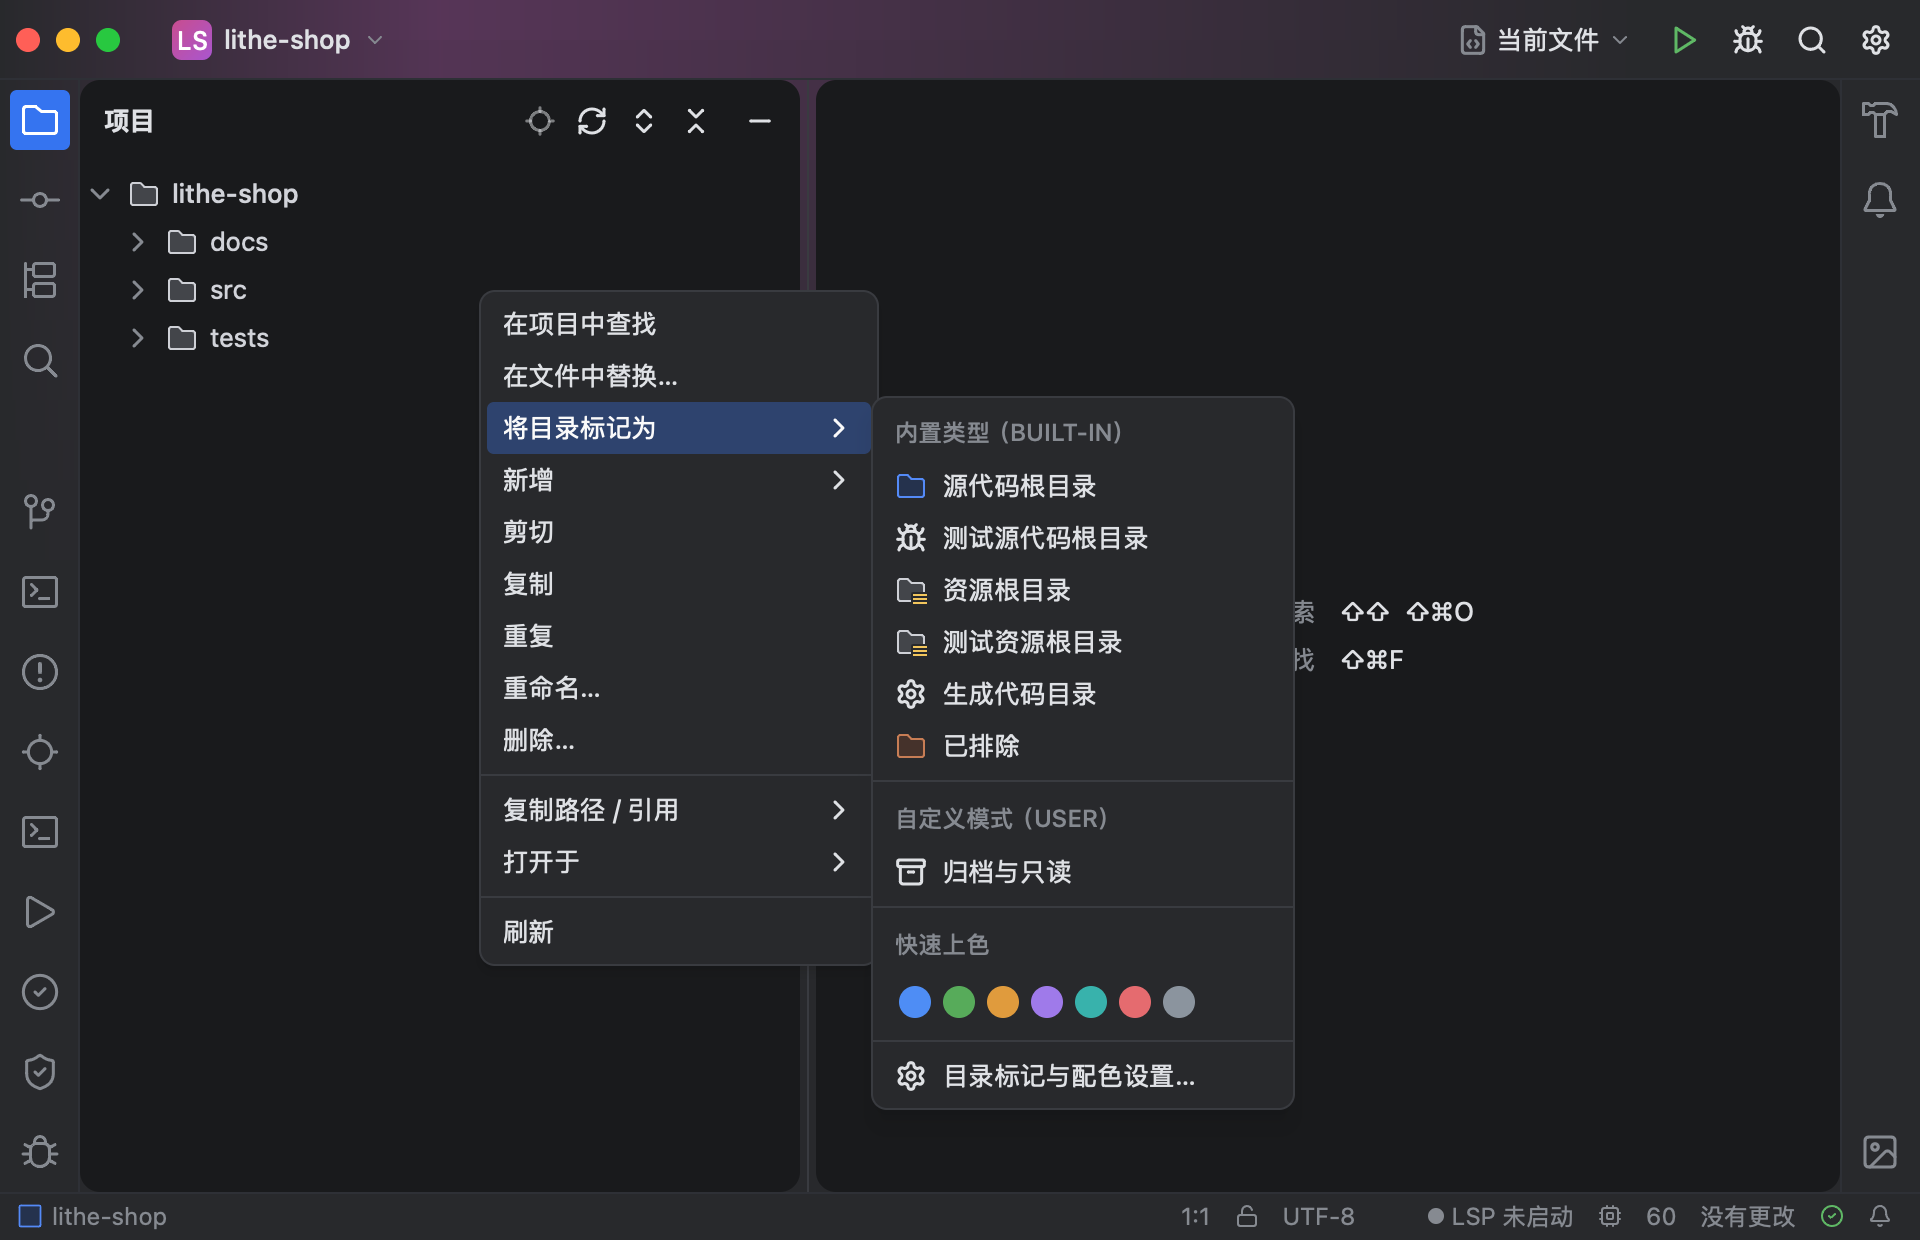
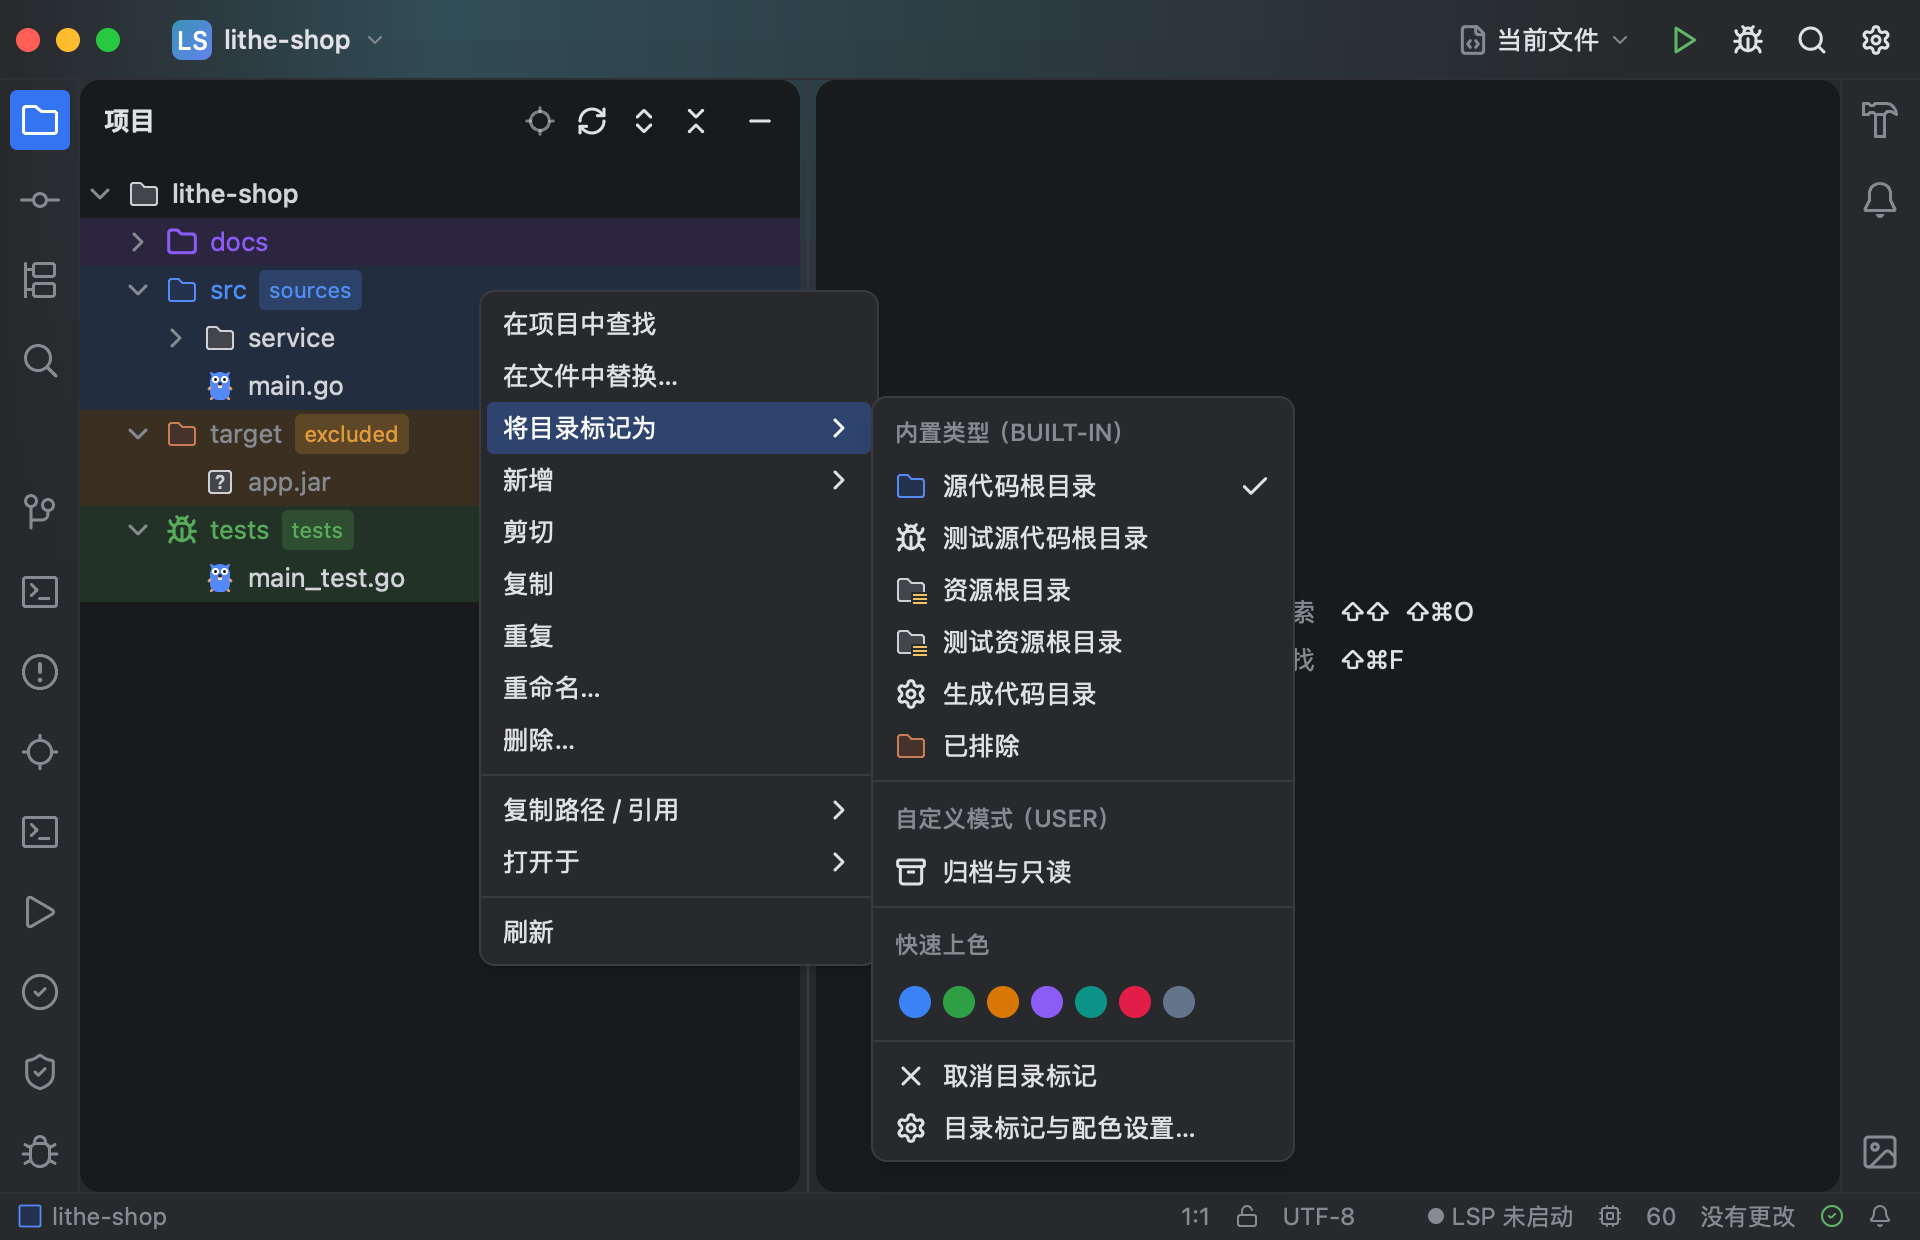
feat(workbench): seamless full-width continuous directory subtree tinting via Viva RowBackground (#2486)
* feat(workbench): render seamless full-width directory tinting via Viva TreeState.RowBackground

* docs(matrix): record #2486 full-width directory row tinting

Add the RowBackground-based subtree tint, the direct name and icon tint,
the light-theme darkening and the new quick-color palette to the
workspace-indexing-exclusions capability, with the macOS test and
headless screenshot evidence. Native and Windows checks stay pending.

diff --git a/desktop/internal/workbench/filetree_view.go b/desktop/internal/workbench/filetree_view.go
@@ -4,6 +4,7 @@ import (
 	"github.com/1lck/Lithe-IDEA/desktop/internal/core"
 	"github.com/1lck/Lithe-IDEA/desktop/internal/fileicons"
 	"github.com/1lck/Lithe-IDEA/desktop/internal/i18n"
+	"github.com/1lck/Lithe-IDEA/desktop/internal/icons"
 	"github.com/1lck/Lithe-IDEA/desktop/internal/shortcuts"
 	"github.com/1lck/Lithe-IDEA/desktop/internal/treelist"
 	"github.com/vivaui/viva/components"
@@ -86,6 +87,27 @@ func (a *App) projectTree(c ui.C, p *project) {
 		Collapsed: fileicons.TreeChevron(false, a.colors.Dark),
 		Expanded:  fileicons.TreeChevron(true, a.colors.Dark),
 		Size:      16,
+	}
+	t.view.RowBackground = func(i int) gfx.Color {
+		if p.indexing.hideBgTint || i < 0 || i >= len(t.rows) {
+			return gfx.Color{}
+		}
+		n := t.rows[i]
+		if n == nil || n == t.root {
+			return gfx.Color{}
+		}
+		entry, ok := p.indexing.presentation[n.path]
+		if !ok || entry.BgColor == "" {
+			return gfx.Color{}
+		}
+		alpha := uint8(34)
+		if a.colors.Dark {
+			alpha = 42
+		}
+		if col, ok := parseHexColor(entry.BgColor, alpha); ok {
+			return col
+		}
+		return gfx.Color{}
 	}
 	tree := ui.Tree(c, &t.view, len(t.rows), t.label, func(i int) {
 		a.drawTreeContent(c, p, t.view.RowID(i), t.rows[i])
@@ -215,8 +237,12 @@ func (a *App) drawTreeContent(c ui.C, p *project, row gfx.ID, n *treeNode) {
 		iconTint := a.colors.Subtle
 		switch {
 		case n.dir && hasMeta && (entry.Role != "plain" || entry.Color != ""):
-			icon = a.directoryIconFor(p, entry.Icon)
-			if tinted, ok := parseHexColor(entry.Color, 0xff); ok {
+			if entry.Icon == "folder" && entry.Color != "" {
+				icon = icons.Folder
+			} else {
+				icon = a.directoryIconFor(p, entry.Icon)
+			}
+			if tinted, ok := readableTreeTint(entry.Color, a.colors.Dark); ok {
 				iconTint = tinted
 			}
 		case p.tree.isModuleRoot(n):
@@ -231,9 +257,9 @@ func (a *App) drawTreeContent(c ui.C, p *project, row gfx.ID, n *treeNode) {
 		if hasMeta {
 			if entry.Excluded {
 				textColor = a.colors.Subtle
-			} else if entry.TintText && entry.Color != "" {
+			} else if entry.Color != "" && (n.dir || entry.TintText) {
 				if _, hasGit := p.git.tree[n.path]; !hasGit {
-					if tinted, ok := parseHexColor(entry.Color, 0xff); ok {
+					if tinted, ok := readableTreeTint(entry.Color, a.colors.Dark); ok {
 						textColor = tinted
 					}
 				}
@@ -243,10 +269,14 @@ func (a *App) drawTreeContent(c ui.C, p *project, row gfx.ID, n *treeNode) {
 		if n.dir && !p.indexing.hideTags && hasMeta && entry.Tag != "" {
 			tagFg := a.colors.Subtle
 			tagBg := a.colors.Hover
-			if tinted, ok := parseHexColor(entry.Color, 0xff); ok {
+			if tinted, ok := readableTreeTint(entry.Color, a.colors.Dark); ok {
 				tagFg = tinted
 			}
-			if bg, ok := parseHexColor(entry.Color, 34); ok {
+			bgAlpha := uint8(42)
+			if a.colors.Dark {
+				bgAlpha = 56
+			}
+			if bg, ok := parseHexColor(entry.Color, bgAlpha); ok {
 				tagBg = bg
 			}
 			ui.Row(c).Shrink(0).PadSides(1, 5, 1, 5).Radius(3).Background(tagBg).Children(func() {
@@ -255,30 +285,11 @@ func (a *App) drawTreeContent(c ui.C, p *project, row gfx.ID, n *treeNode) {
 		}
 		a.projectTreeMenu(c, p, row, n, name)
 	}
-	var bgTint gfx.Color
-	hasBg := false
-	if !p.indexing.hideBgTint && hasMeta && entry.BgColor != "" && n != p.tree.root {
-		alpha := uint8(26)
-		if a.colors.Dark {
-			alpha = 34
-		}
-		if parsed, ok := parseHexColor(entry.BgColor, alpha); ok {
-			bgTint, hasBg = parsed, true
-		}
-	}
 	if n.dir && !n.empty {
-		if hasBg {
-			ui.Row(c).FillWidth().Items(ui.Center).Gap(c.Theme().Metrics.GapItem).Radius(3).Background(bgTint).Children(content)
-			return
-		}
 		content()
 		return
 	}
-	r := ui.Row(c).Shrink(0).Items(ui.Center).Gap(c.Theme().Metrics.GapItem).PadLeft(treeChevron)
-	if hasBg {
-		r = r.FillWidth().Radius(3).Background(bgTint)
-	}
-	r.Children(content)
+	ui.Row(c).Shrink(0).Items(ui.Center).Gap(c.Theme().Metrics.GapItem).PadLeft(treeChevron).Children(content)
 }
 
 // focusTreeRow gives the keyboard to the row the locate button brought into view, once the row

diff --git a/desktop/internal/workbench/directory_exclusions.go b/desktop/internal/workbench/directory_exclusions.go
@@ -115,13 +115,13 @@ type directoryColorSwatch struct {
 
 func directoryColorSwatchesFor(language i18n.Language) []directoryColorSwatch {
 	return []directoryColorSwatch{
-		{label: i18n.Shared(language, "desktop.directoryMarks.color.blue"), hex: "#4e8df5"},
-		{label: i18n.Shared(language, "desktop.directoryMarks.color.green"), hex: "#57ab5a"},
-		{label: i18n.Shared(language, "desktop.directoryMarks.color.amber"), hex: "#e09b3d"},
-		{label: i18n.Shared(language, "desktop.directoryMarks.color.purple"), hex: "#9f7aea"},
-		{label: i18n.Shared(language, "desktop.directoryMarks.color.teal"), hex: "#38b2ac"},
-		{label: i18n.Shared(language, "desktop.directoryMarks.color.rose"), hex: "#e56b6f"},
-		{label: i18n.Shared(language, "desktop.directoryMarks.color.slate"), hex: "#8b949e"},
+		{label: i18n.Shared(language, "desktop.directoryMarks.color.blue"), hex: "#3b82f6"},
+		{label: i18n.Shared(language, "desktop.directoryMarks.color.green"), hex: "#2ea043"},
+		{label: i18n.Shared(language, "desktop.directoryMarks.color.amber"), hex: "#d97706"},
+		{label: i18n.Shared(language, "desktop.directoryMarks.color.purple"), hex: "#8b5cf6"},
+		{label: i18n.Shared(language, "desktop.directoryMarks.color.teal"), hex: "#0d9488"},
+		{label: i18n.Shared(language, "desktop.directoryMarks.color.rose"), hex: "#e11d48"},
+		{label: i18n.Shared(language, "desktop.directoryMarks.color.slate"), hex: "#64748b"},
 	}
 }
 
@@ -812,6 +812,27 @@ func parseHexColor(hexStr string, alpha uint8) (gfx.Color, bool) {
 		return gfx.Color{}, false
 	}
 	return gfx.RGBA(uint8(v>>16), uint8((v>>8)&0xff), uint8(v&0xff), float32(alpha)/255.0), true
+}
+
+// readableTreeTint returns a saturated, high-contrast tint for directory icons and names.
+// On light surfaces it deepens bright colors slightly so folder names and icons never look washed out.
+func readableTreeTint(hexStr string, dark bool) (gfx.Color, bool) {
+	if len(hexStr) != 7 || hexStr[0] != '#' {
+		return gfx.Color{}, false
+	}
+	v, err := strconv.ParseUint(hexStr[1:], 16, 32)
+	if err != nil {
+		return gfx.Color{}, false
+	}
+	r := uint8(v >> 16)
+	g := uint8((v >> 8) & 0xff)
+	b := uint8(v & 0xff)
+	if !dark {
+		r = uint8(float32(r) * 0.80)
+		g = uint8(float32(g) * 0.80)
+		b = uint8(float32(b) * 0.80)
+	}
+	return gfx.RGBA(r, g, b, 1), true
 }
 
 // defaultArchiveDirectoryType returns the starter removable custom directory type for

diff --git a/desktop/internal/workbench/directory_marks_visual_test.go b/desktop/internal/workbench/directory_marks_visual_test.go
@@ -32,7 +32,13 @@ func TestVisualDirectoryMarkContextMenu(t *testing.T) {
 	} {
 		t.Run(look.language+"-"+look.theme, func(t *testing.T) {
 			root := filepath.Join(t.TempDir(), "lithe-shop")
-			writeTreeFiles(t, root, "src/main.go", "tests/main_test.go", "docs/README.md")
+			writeTreeFiles(t, root,
+				"src/main.go",
+				"src/service/order.go",
+				"tests/main_test.go",
+				"docs/README.md",
+				"target/app.jar",
+			)
 			prefs := store.At(t.TempDir())
 			if err := prefs.Save(settingsFile, settings{
 				Theme:           themeChoice(look.theme),
@@ -56,6 +62,26 @@ func TestVisualDirectoryMarkContextMenu(t *testing.T) {
 				return session.Driver(), session.Close, nil
 			})
 			h.openTree(t, root)
+			// Seed visible directory marks (including an excluded subtree and a quick-colored
+			// folder) and expand branches so the screenshot verifies continuous full-width
+			// subtree background tinting + direct icon/name tinting alongside the context menu.
+			h.app.setDirectoryRole(h.app.project, "src", "sources")
+			h.settle()
+			h.app.setDirectoryRole(h.app.project, "tests", "tests")
+			h.settle()
+			h.app.setDirectoryColor(h.app.project, "docs", "#8b5cf6")
+			h.settle()
+			h.app.excludeFromSearch(h.app.project, "target", false)
+			h.settle()
+			for _, name := range []string{"src", "tests", "target"} {
+				for _, node := range h.app.project.tree.rows {
+					if node.path == name {
+						h.app.toggleFolder(h.app.project, node)
+						h.settle()
+						break
+					}
+				}
+			}
 			h.rightClickNamed("src")
 			h.popupClick(h.shared("desktop.directoryMarks.menuTitle"))
 			h.settle()
